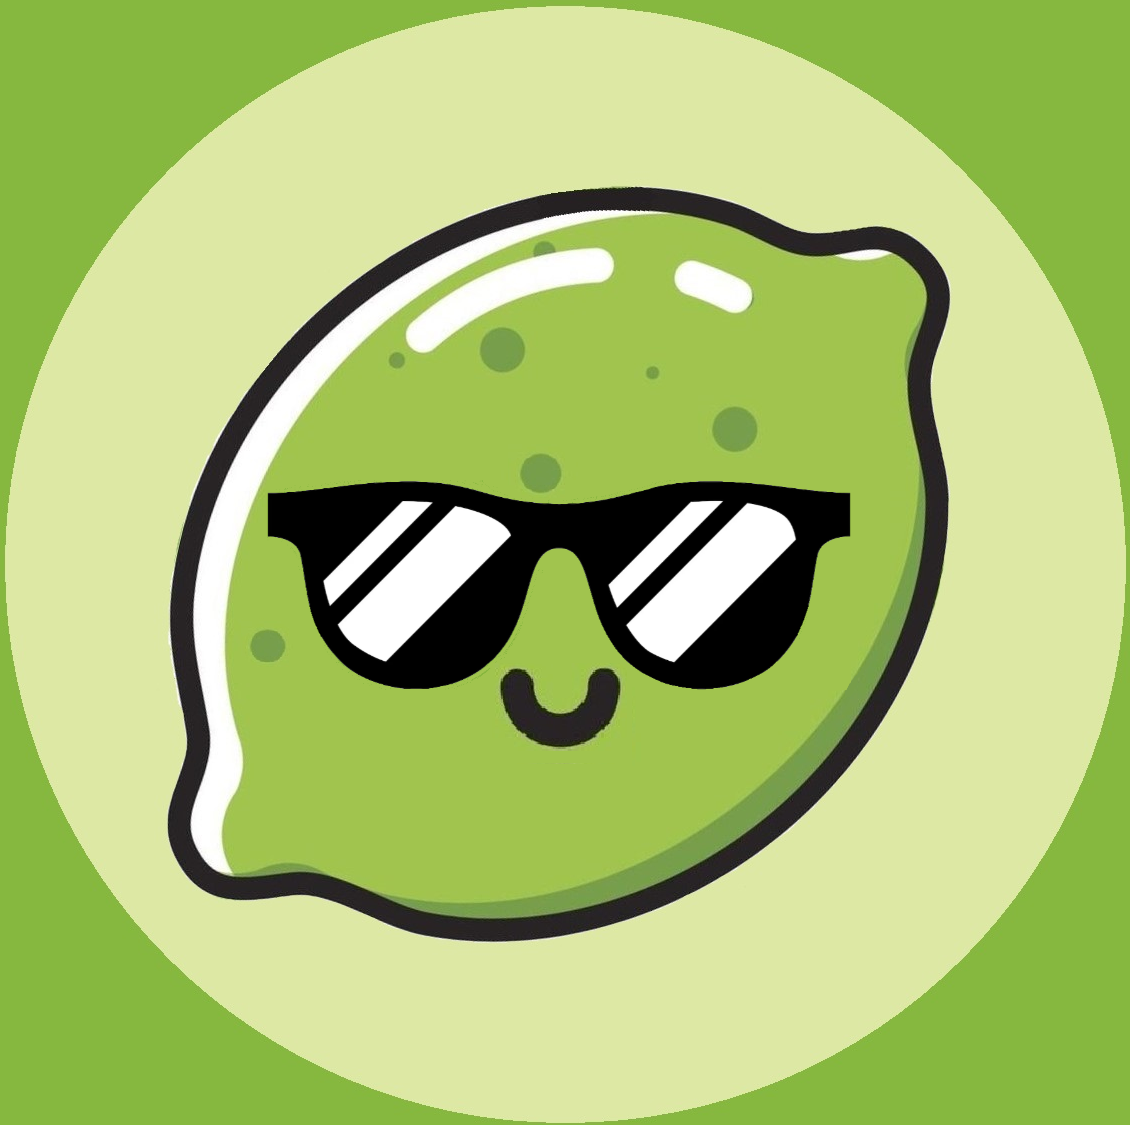
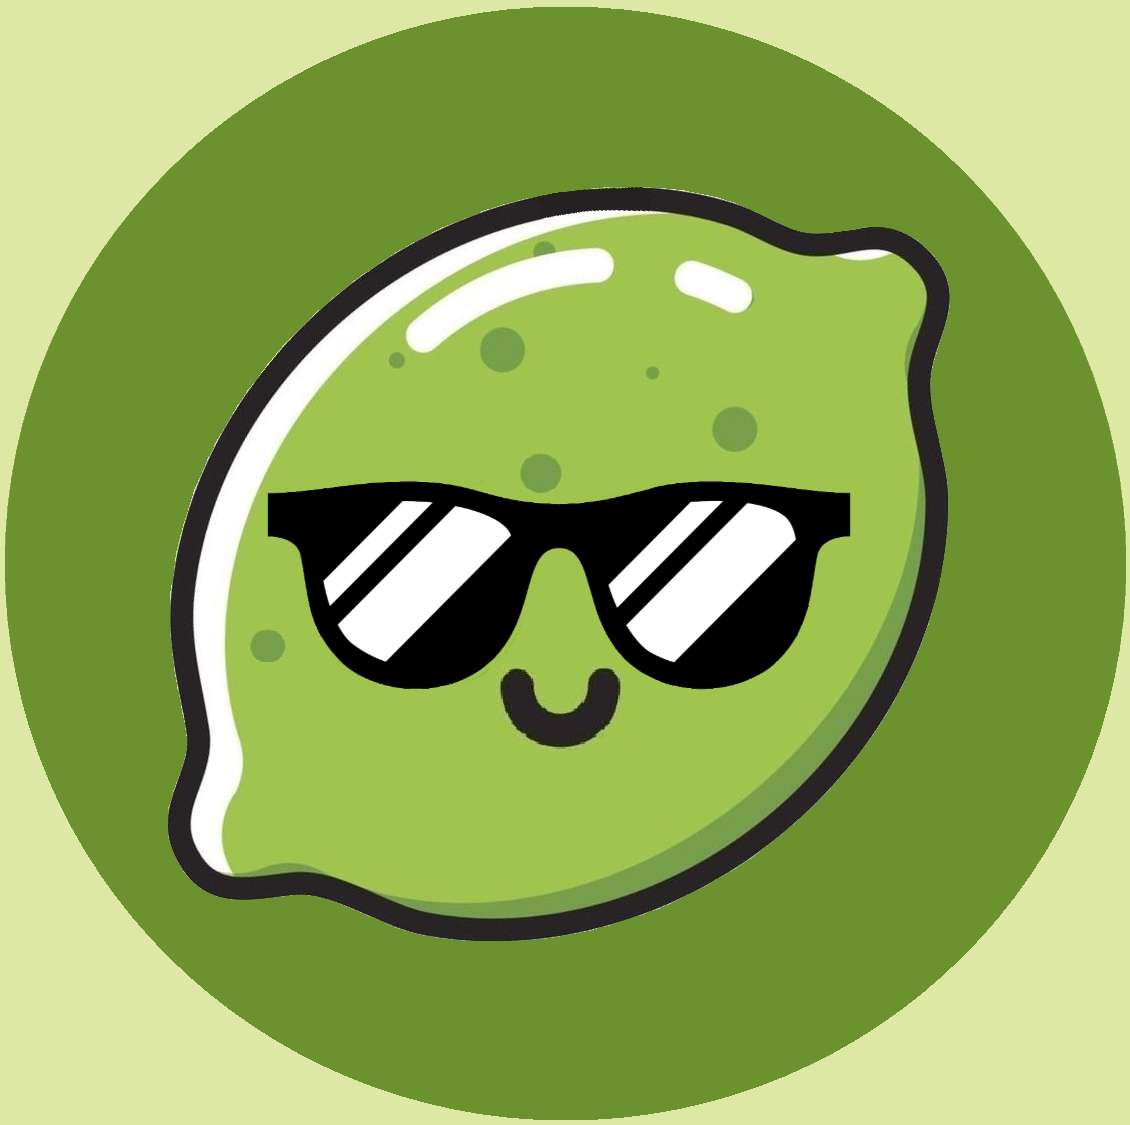
Complete flag graphic toggling

diff --git a/src/main/java/com/example/_2522_game_project/LimesweeperApplication.java b/src/main/java/com/example/_2522_game_project/LimesweeperApplication.java
@@ -44,7 +44,7 @@ public class LimesweeperApplication extends Application {
     private Difficulty difficulty = Difficulty.MEDIUM;
     static int numLimes;
 
-    public static void checkWin(){
+    public static void checkWin() throws IOException {
         if (counter == (board.getColumns() * board.getRows())) {
             youWin();
         }
@@ -66,7 +66,18 @@ public class LimesweeperApplication extends Application {
         return builder;
     }
 
-    public static void youWin() {
+    public static void youWin() throws IOException {
+        pane.setStyle("-fx-background-color: rgb(221,232,164);");
+        flagChangeBtn.getChildren().clear();
+        settingsBtn.getChildren().clear();
+        resetBtn.getChildren().clear();
+        resetBtn.getChildren().add(makeImageView("reset_sunglasses.png", 50, 50));
+        Cell[][] boardGrid = board.getBoardGrid();
+        for (Cell[] cells : boardGrid) {
+            for (Cell cell : cells) {
+                cell.setOutline(Color.rgb(221,232,164));
+            }
+        }
         timer.cancel();
         TextInputDialog userInput = new TextInputDialog();
         List<Person> people = readFile();
@@ -245,7 +256,7 @@ public class LimesweeperApplication extends Application {
         pane = new Pane();
         final int barHeight = 60;
         final int easyNumLimes = 10;
-        final int mediumNumLimes = 40;
+        final int mediumNumLimes = 35;
         final int hardNumLimes = 99;
         switch (difficulty) {
             case EASY -> {

diff --git a/src/main/java/com/example/_2522_game_project/Cell.java b/src/main/java/com/example/_2522_game_project/Cell.java
@@ -83,7 +83,7 @@ public class Cell extends StackPane {
         }
     }
 
-    private void increaseCounter() {
+    private void increaseCounter() throws IOException {
         LimesweeperApplication.counter += 1;
         LimesweeperApplication.checkWin();
     }
